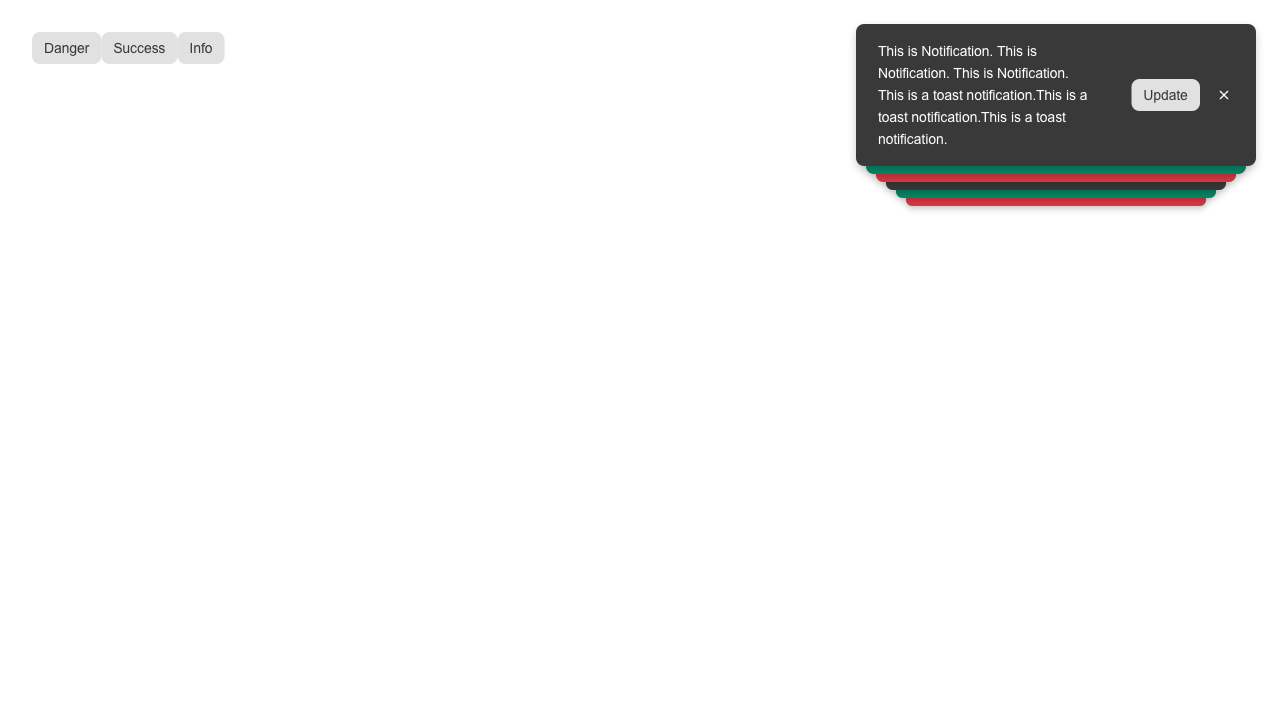
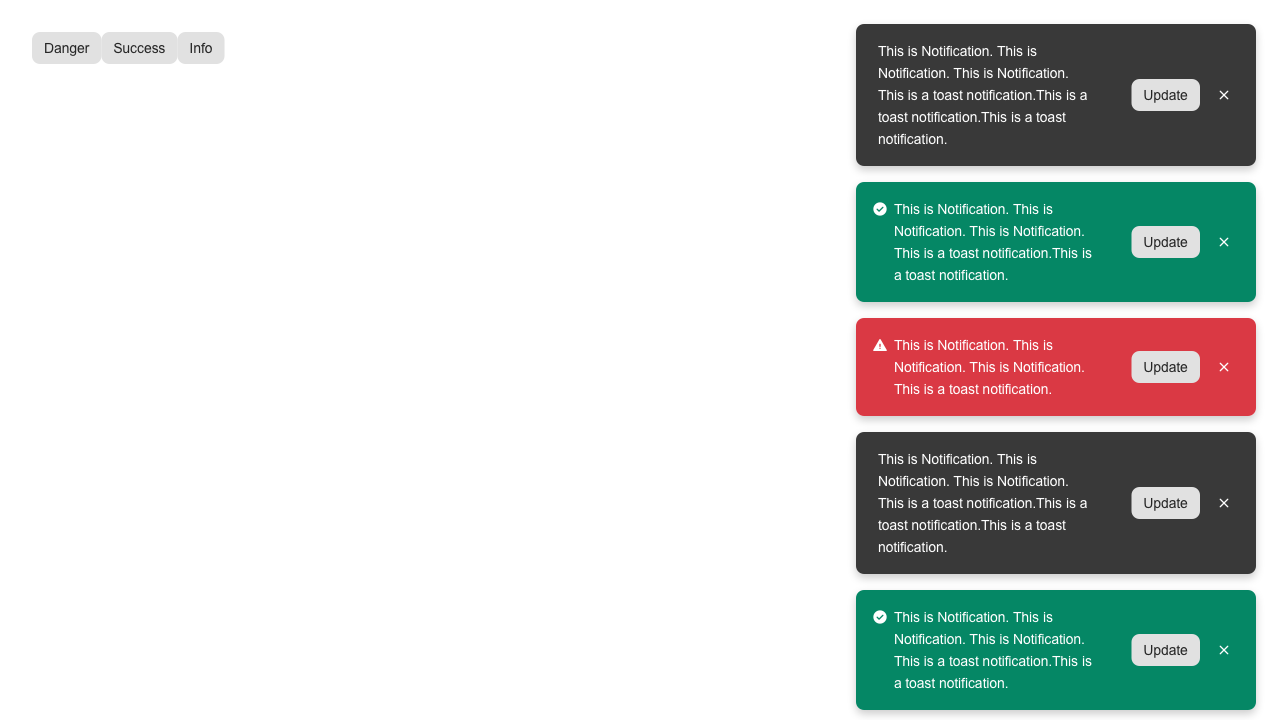
refactor(Toast): replace stacked scaling with horizontal slide (#745)

Changed region(s): [[0.6562, 0.2139, 1.0, 1.0]]

diff --git a/packages/core/src/components/toast/toast.css.ts b/packages/core/src/components/toast/toast.css.ts
@@ -1,4 +1,4 @@
-import { createGlobalVar, fallbackVar } from '@vanilla-extract/css';
+import { createGlobalVar } from '@vanilla-extract/css';
 import { calc } from '@vanilla-extract/css-utils';
 import type { RecipeVariants } from '@vanilla-extract/recipes';
 
@@ -8,21 +8,21 @@ import { vars } from '~/styles/themes.css';
 
 export const inners = {
     gap: createGlobalVar('gap'),
-    peek: createGlobalVar('peek'),
-    scale: createGlobalVar('scale'),
-    shrink: createGlobalVar('shrink'),
-    height: createGlobalVar('height'),
     offsetY: createGlobalVar('offset-y'),
 };
 
 const outers = {
     index: 'var(--toast-index)',
-    frontmostHeight: 'var(--toast-frontmost-height)',
     height: 'var(--toast-height)',
     swipeMoveX: 'var(--toast-swipe-movement-x)',
     swipeMoveY: 'var(--toast-swipe-movement-y)',
     offsetY: 'var(--toast-offset-y)',
 };
+
+const slideTransform = (translateX: string) =>
+    `translateX(${translateX}) translateY(${inners.offsetY})`;
+
+const OFF_SCREEN_X = '28rem';
 
 export const viewport = componentStyle({
     position: 'fixed',
@@ -54,8 +54,7 @@ export const root = componentRecipe({
         bottom: 'auto',
         left: 'auto',
 
-        transform: `translateX(${outers.swipeMoveX}) translateY(calc(${outers.swipeMoveY} + (${outers.index} * ${inners.peek}) + (${inners.shrink} * ${inners.height}))) scale(${inners.scale})`,
-        transformOrigin: 'top center',
+        transform: slideTransform(outers.swipeMoveX),
         transition: 'transform 400ms, opacity 400ms, height 200ms, box-shadow 200ms',
 
         borderRadius: vars.size.borderRadius[300],
@@ -63,7 +62,7 @@ export const root = componentRecipe({
         backgroundClip: 'padding-box',
         padding: vars.size.space[200],
         width: '100%',
-        height: inners.height,
+        height: outers.height,
 
         userSelect: 'none',
 
@@ -74,11 +73,7 @@ export const root = componentRecipe({
         },
 
         vars: {
-            [inners.gap]: '0.75rem',
-            [inners.peek]: '0.5rem',
-            [inners.scale]: `calc(max(0, 1 - (${outers.index} * 0.05)))`,
-            [inners.shrink]: calc.subtract('1', inners.scale),
-            [inners.height]: fallbackVar(outers.frontmostHeight, outers.height),
+            [inners.gap]: vars.size.space[200],
             [inners.offsetY]: calc.add(
                 outers.offsetY,
                 calc.multiply(outers.index, inners.gap),
@@ -87,13 +82,8 @@ export const root = componentRecipe({
         },
 
         selectors: {
-            '&[data-expanded]': {
-                transform: `translateX(${outers.swipeMoveX}) translateY(${inners.offsetY})`,
-                height: outers.height,
-            },
-
             '&[data-starting-style], &[data-ending-style]': {
-                transform: 'translateY(-150%)',
+                transform: slideTransform(OFF_SCREEN_X),
                 opacity: 0,
             },
 
@@ -104,8 +94,14 @@ export const root = componentRecipe({
             '&[data-ending-style][data-swipe-direction="up"]': {
                 transform: `translateY(calc(${outers.swipeMoveY} - 150%))`,
             },
+            '&[data-ending-style][data-swipe-direction="down"]': {
+                transform: `translateY(calc(${outers.swipeMoveY} + 150%))`,
+            },
             '&[data-ending-style][data-swipe-direction="right"]': {
-                transform: `translateX(${calc.add(outers.swipeMoveX, '150%')}) translateY(${inners.offsetY})`,
+                transform: slideTransform(calc.add(outers.swipeMoveX, OFF_SCREEN_X)),
+            },
+            '&[data-ending-style][data-swipe-direction="left"]': {
+                transform: slideTransform(calc.subtract(outers.swipeMoveX, OFF_SCREEN_X)),
             },
 
             '&::after': {
@@ -143,19 +139,6 @@ export const content = componentStyle({
     alignItems: 'center',
     justifyContent: 'space-between',
     gap: vars.size.space[400],
-
-    transition: 'opacity 400ms',
-
-    '@media': {
-        '(prefers-reduced-motion: reduce)': {
-            transition: 'none',
-        },
-    },
-
-    selectors: {
-        '&[data-behind]': { opacity: 0 },
-        '&[data-expanded]': { opacity: 1 },
-    },
 });
 
 export const title = componentStyle([{ color: 'inherit' }, typography({ style: 'subtitle1' })]);
